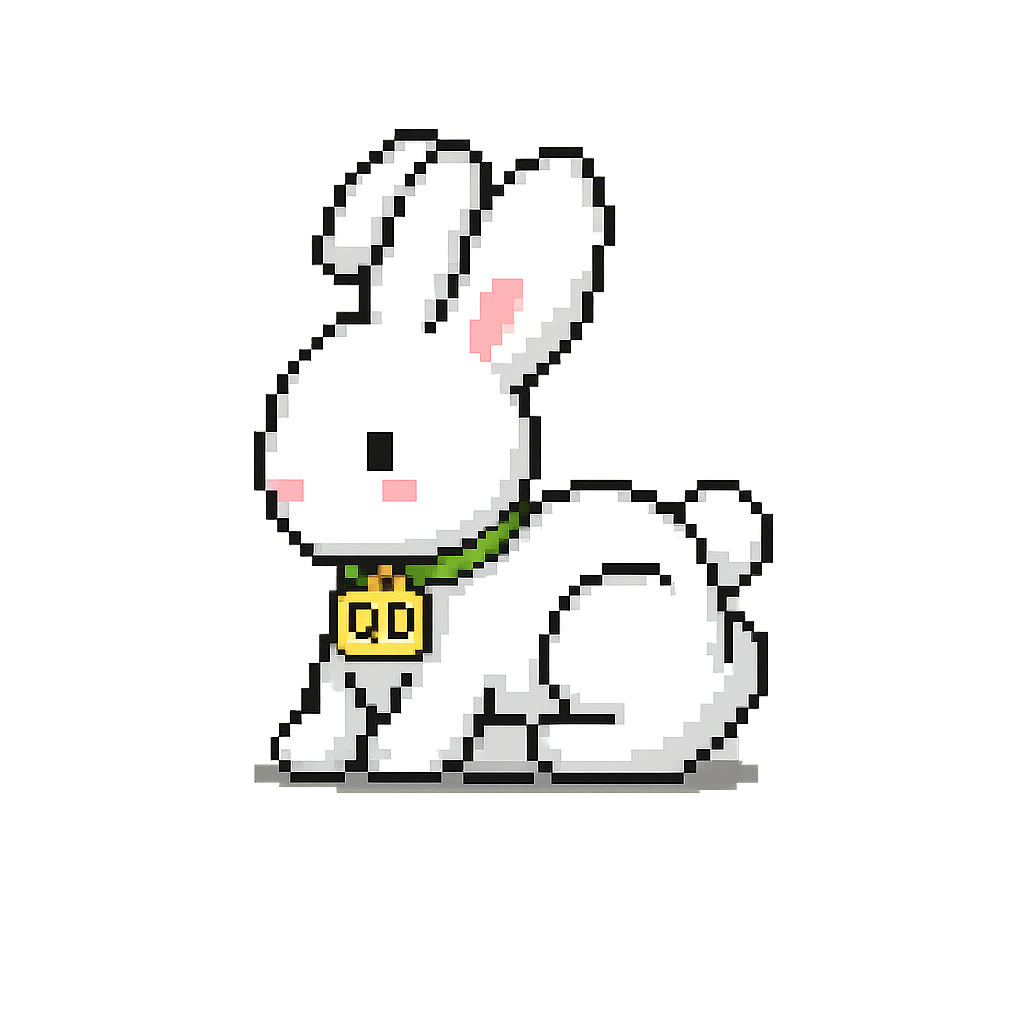
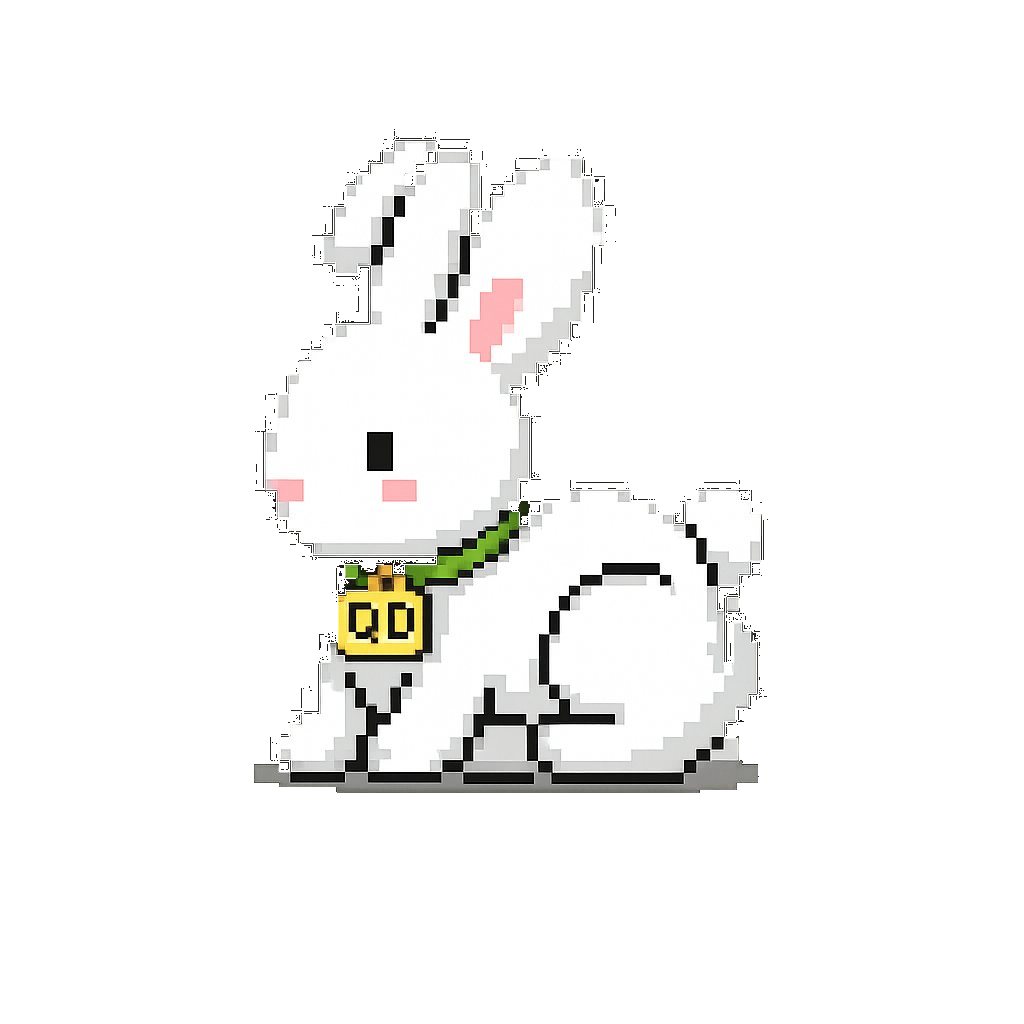
enabled fur colour and assessory to chosen independtantly

diff --git a/components/BunnyMascot.tsx b/components/BunnyMascot.tsx
@@ -19,23 +19,21 @@ export function BunnyMascot({ equippedAccessory, furColor, size = "large" }: Pro
   return (
     <View style={styles.container}>
       <Text
-        style={{ fontSize: accessoryFontSize, lineHeight: accessoryFontSize + 4, textAlign: "center", marginBottom: -8 }}
+        style={{
+          fontSize: accessoryFontSize,
+          lineHeight: accessoryFontSize + 4,
+          textAlign: "center",
+          marginBottom: -8,
+        }}
       >
         {equippedAccessory ? equippedAccessory.emoji : " "}
       </Text>
-      <View
-        style={[
-          styles.imageWrapper,
-          { width: imageSize, height: imageSize, borderRadius: imageSize / 2 },
-          furColor ? { backgroundColor: furColor } : null,
-        ]}
-      >
-        <Image
-          source={bunnySource}
-          style={{ width: imageSize, height: imageSize }}
-          contentFit="contain"
-        />
-      </View>
+      <Image
+        source={bunnySource}
+        style={{ width: imageSize, height: imageSize }}
+        contentFit="contain"
+        tintColor={furColor ?? undefined}
+      />
     </View>
   );
 }
@@ -43,10 +41,5 @@ export function BunnyMascot({ equippedAccessory, furColor, size = "large" }: Pro
 const styles = StyleSheet.create({
   container: {
     alignItems: "center",
-  },
-  imageWrapper: {
-    alignItems: "center",
-    justifyContent: "center",
-    overflow: "hidden",
   },
 });

diff --git a/app/(tabs)/cosmetics.tsx b/app/(tabs)/cosmetics.tsx
@@ -10,6 +10,9 @@ import { useTasks } from "@/src/context/TaskContext";
 import { accessoryItems, furColorItems } from "@/src/rewards/cosmeticItems";
 import { CosmeticItem } from "@/src/types/cosmetics";
 import { BunnyMascot } from "@/components/BunnyMascot";
+import { Image } from "expo-image";
+
+const bunnySource = require("@/assets/images/bunny-mascot.png");
 
 export default function CosmeticsScreen() {
   const { totalPoints, unlockedCosmeticIds, equippedCosmetics, equipCosmetic } = useTasks();
@@ -107,14 +110,12 @@ function CosmeticCard({
       ]}
     >
       {item.type === "furColor" ? (
-        <View
-          style={[
-            styles.furPreviewCircle,
-            { backgroundColor: isUnlocked ? (item.furColor ?? "#eee") : "#ddd" },
-          ]}
-        >
-          <Text style={styles.furPreviewBunny}>🐰</Text>
-        </View>
+        <Image
+          source={bunnySource}
+          style={[styles.furPreviewBunny, !isUnlocked && styles.dimmed]}
+          contentFit="contain"
+          tintColor={isUnlocked ? item.furColor : "#ccc"}
+        />
       ) : (
         <Text style={[styles.cosmeticEmoji, !isUnlocked && styles.dimmed]}>
           {isUnlocked ? item.emoji : "🔒"}
@@ -231,16 +232,9 @@ const styles = StyleSheet.create({
   dimmed: {
     opacity: 0.4,
   },
-  furPreviewCircle: {
-    width: 56,
-    height: 56,
-    borderRadius: 28,
-    alignItems: "center",
-    justifyContent: "center",
-  },
   furPreviewBunny: {
-    fontSize: 30,
-    lineHeight: 36,
+    width: 52,
+    height: 52,
   },
   cosmeticName: {
     fontSize: 13,